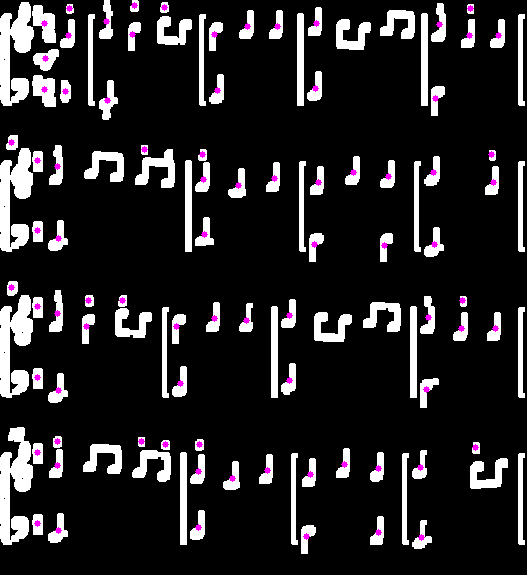
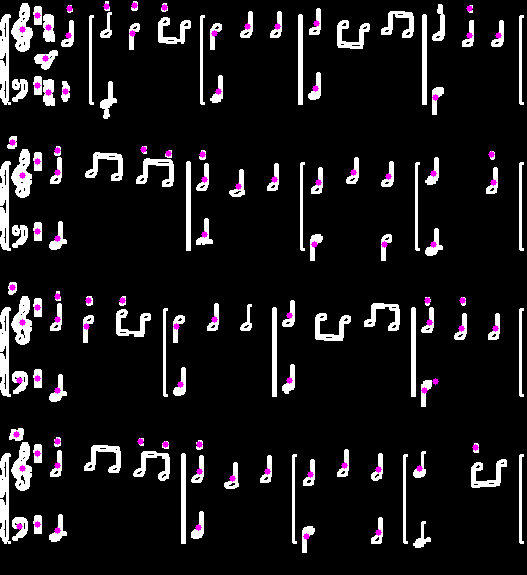
fixed notehead detection

diff --git a/note_head_detection.py b/note_head_detection.py
@@ -12,7 +12,7 @@ def apply_method1(image_array):
     canny_edges = cv2.Canny(processed_img_cv, threshold1=100, threshold2=200, apertureSize=3)
 
     # Dilate the edges to make them thicker and more prominent (2x2 kernel)
-    kernel = np.ones((5, 5), np.uint8)
+    kernel = np.ones((3, 3), np.uint8)
     dilated_edges = cv2.dilate(canny_edges, kernel, iterations=1)
 
     return canny_edges, dilated_edges
